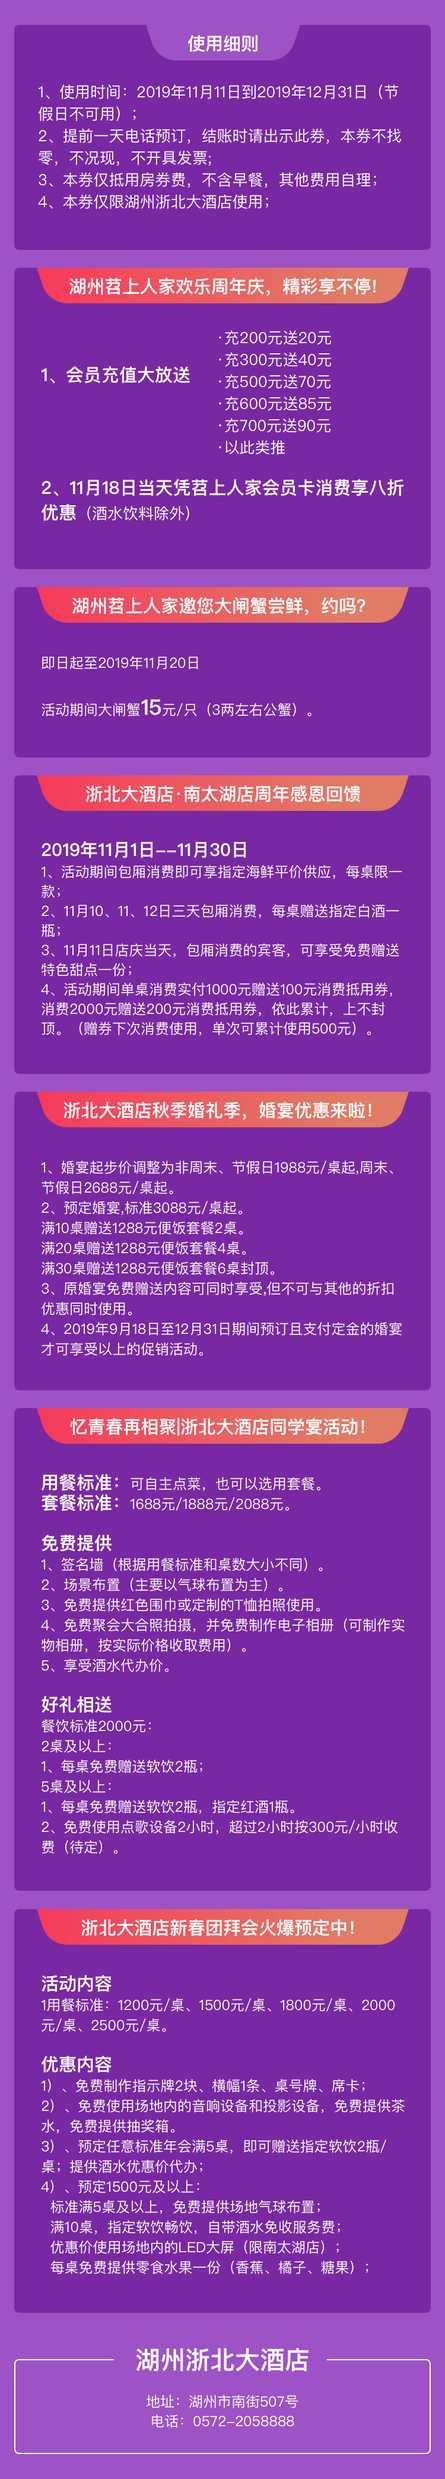
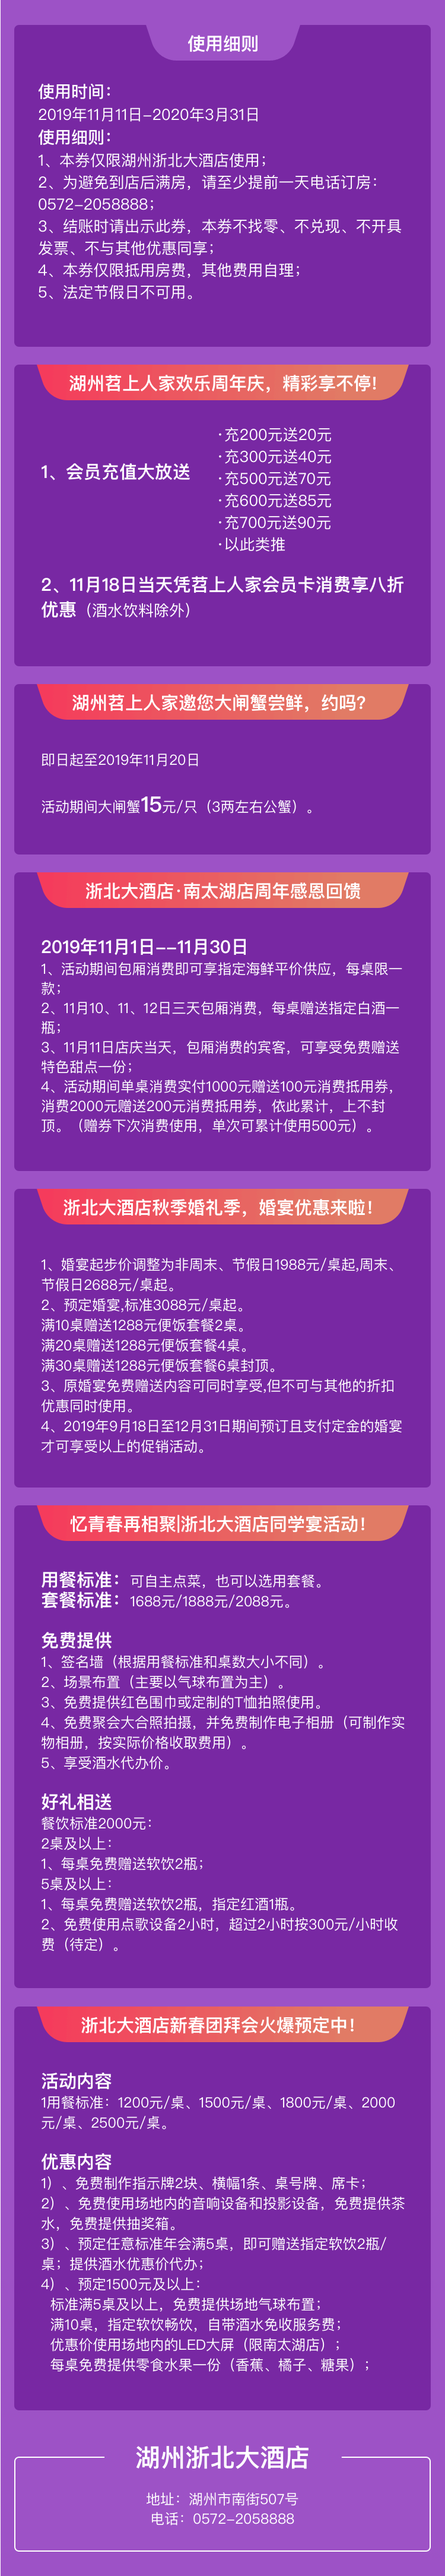
酒店活动修改

diff --git a/src/router/activity-hotel/index.js b/src/router/activity-hotel/index.js
@@ -4,10 +4,9 @@ import { message } from 'antd'
 import moment from 'moment'
 
 import { setToken } from '@/cache/token.js'
-import { getCouponDetail } from '@/api/custom-modal'
 import './index.scss'
 import FirstFloor from './view/first-floor'
-import { getActivityDetail, checkUser } from './api/api'
+import { getActivityDetail, checkUser, getCouponDetail } from './api/api'
 import tipImg from '@/assets/activity_hotel_tip.png'
 
 export default class ActivityHotel extends React.Component {
@@ -20,10 +19,6 @@ export default class ActivityHotel extends React.Component {
 
   async componentDidMount() {
     Toast.loading('Loading...', 20)
-    // this.props.history.listen(async () => {
-    //   await this.componentDidMount()
-    //   window.history.back(-1)
-    // })
     let token = this.getUrlToken('token', this.props.location.search)
     let activityId = this.props.match.params.activityId
     await setToken(token).then(async () => {
@@ -42,38 +37,28 @@ export default class ActivityHotel extends React.Component {
           document.title = res.title
         }
         Toast.hide()
-        // this.setState({ activityConfig: res })
-        // 获取券详情
-        // const { floors = [] } = res;
-        // getCouponDetail(res.limitCoupons).then(coupon => {
-        //   this.setState({
-        //     couponList: coupon ? coupon.records : []
-        //   });
-        // });
-        // floors.map((floor, index) => {
-        //   getCouponDetail(floor.couponList).then(coupon => {
-        //     const floorCouponList = { ...this.state.floorCouponList };
-        //     floorCouponList[index] = coupon ? coupon.records : [];
-        //     this.setState({ floorCouponList });
-        //   });
-        // });
+        const floorCouponList = {}
+        res.firstFloor.coupons
+          .map(item => item.id)
+          .map(id => {
+            getCouponDetail({ id }).then(couponDetail => {
+              floorCouponList[id] = couponDetail
+              console.log(floorCouponList)
+              this.setState({ floorCouponList })
+            })
+          })
         this.setState({ activityConfig: res }, () => {
           let activityModal = document.getElementsByClassName('activity-modal')
-          // let tabActive =
-          //   document.getElementsByClassName("am-tabs-default-bar-tab-active") ||
-          //   [];
           activityModal[0] &&
             (activityModal[0].style.background = res.colors.bgColor)
-          // [...tabActive].forEach(item => {
-          //   item.style.background = res.colors.floorSelectedColor;
-          // });
         })
       })
     })
   }
 
   render() {
-    const { activityConfig } = this.state
+    const { activityConfig, floorCouponList } = this.state
+    console.log(floorCouponList)
     return (
       <div className='activity-modal clearfix'>
         <div className='banner'>
@@ -85,10 +70,13 @@ export default class ActivityHotel extends React.Component {
         </div>
         <div id='floor'>
           <div className={`tabs-content`}>
-            <FirstFloor
-              goCouponDetail={this.goCouponDetail}
-              dataSource={activityConfig.firstFloor}
-            />
+            {JSON.stringify(floorCouponList) !== '{}' && (
+              <FirstFloor
+                goCouponDetail={this.goCouponDetail}
+                dataSource={activityConfig.firstFloor}
+                floorCouponList={floorCouponList}
+              />
+            )}
           </div>
         </div>
         <div style={{ width: '100%' }}>
@@ -100,33 +88,46 @@ export default class ActivityHotel extends React.Component {
 
   goCouponDetail = item => {
     const { id: couponId, beginAt, endAt } = item
-    checkUser().then(res => {
-      if (!res) {
-        getCouponDetail(couponId).then(coupon => {
-          const detail = coupon.records
-          if (!detail || detail.length === 0) {
-            if (beginAt && endAt) {
-              const now = moment().second()
-              const start = moment(beginAt).second()
-              const end = moment(endAt).second()
-              if (now < start) {
-                message.warn('活动尚未开始，请耐心等待！')
-              } else if (now > end) {
-                message.warn('活动已过期！')
-              }
-            } else {
-              message.warn('活动尚未开始，请耐心等待！')
+
+    if (beginAt && endAt) {
+      const now = new Date().getTime()
+      const start = new Date(moment(beginAt).format()).getTime()
+      const end = new Date(moment(endAt).format()).getTime()
+      if (now < start) {
+        message.warn('活动尚未开始，请耐心等待！')
+      } else if (now > end) {
+        message.warn('活动已结束，下次早点来哟~')
+      } else {
+        getCouponDetail({ id: couponId }).then(couponDetail => {
+          console.log(couponDetail)
+          const list = { ...this.state.floorCouponList }
+          list[couponId] = couponDetail
+          this.setState(
+            {
+              floorCouponList: list
+            },
+            () => {
+              console.log(this.state.floorCouponList)
             }
+          )
+          if (couponDetail.stock == 0) {
+            message.warn('已抢光！')
           } else {
-            window.wx.miniProgram.navigateTo({
-              url: '/packageA/pages/integral/reduction/index?id=' + couponId
+            checkUser().then(res => {
+              if (!res) {
+                window.wx.miniProgram.navigateTo({
+                  url: '/packageA/pages/integral/reduction/index?id=' + couponId
+                })
+              } else {
+                message.warn('已抢光！')
+              }
             })
           }
         })
-      } else {
-        message.warn('集团员工，无法抢购哦，分享非员工好友抢购吧~')
       }
-    })
+    } else {
+      message.warn('活动尚未开始，请耐心等待！')
+    }
   }
   getUrlToken(name, str) {
     const reg = new RegExp(`(^|&)${name}=([^&]*)(&|$)`)

diff --git a/src/router/activity-hotel/view/first-floor/index.js b/src/router/activity-hotel/view/first-floor/index.js
@@ -1,29 +1,39 @@
-import React from "react";
+import React from 'react'
+import CouponClearImg from '@/assets/coupon_clear.png'
 
-import "./index.scss";
+import './index.scss'
 
 export default function FirstFloor(props) {
-  const { floorBanner, coupons = [] } = props.dataSource || {};
+  const { floorBanner, coupons = [] } = props.dataSource || {}
+  const { floorCouponList } = props
   return (
-    <div className="click-autor">
+    <div className='click-autor'>
       {/* <FloorTitle title="900购1100" label="单笔购1100，不与其他活动优惠" /> */}
-      <div className="floor1">
-        <img
-          className="floor1-banner"
-          src={floorBanner}
-        />
+      <div className='floor1'>
+        <img className='floor1-banner' src={floorBanner} />
         {coupons.map(item => {
           return (
-            <img
-              style={{ width: "100%" }}
-              className="floor1-item"
-              key={"floor1" + item.id}
-              src={item.img}
+            <div
+              className='floor1-img-box'
+              style={{ position: 'relative' }}
+              key={'floor1' + item.id}
               onClick={() => props.goCouponDetail(item)}
-            />
-          );
+            >
+              <img
+                style={{ width: '100%' }}
+                className='floor1-item'
+                src={item.img}
+              />
+              <img
+                className={`floor1-clear ${
+                  (floorCouponList[item.id] || {}).stock ? 'disable' : ''
+                }`}
+                src={CouponClearImg}
+              />
+            </div>
+          )
         })}
       </div>
     </div>
-  );
+  )
 }

diff --git a/src/router/activity-hotel/view/first-floor/index.scss b/src/router/activity-hotel/view/first-floor/index.scss
@@ -5,4 +5,16 @@
   .floor1-item {
     margin-bottom: 15px;
   }
+  .floor1-clear {
+    position: absolute;
+    left: 0;
+    right: 0;
+    margin: auto;
+    bottom: 148px;
+    width: 242px;
+    height: 197px;
+    &.disable {
+      display: none;
+    }
+  }
 }

diff --git a/src/router/activity-hotel/api/api.js b/src/router/activity-hotel/api/api.js
@@ -7,3 +7,7 @@ export function getActivityDetail(data) {
 export function checkUser() {
   return get(`/zbdx-api/member/isInternalUser`);
 }
+
+export function getCouponDetail(data) {
+  return get(`/jf-api/goods`, data)
+}
